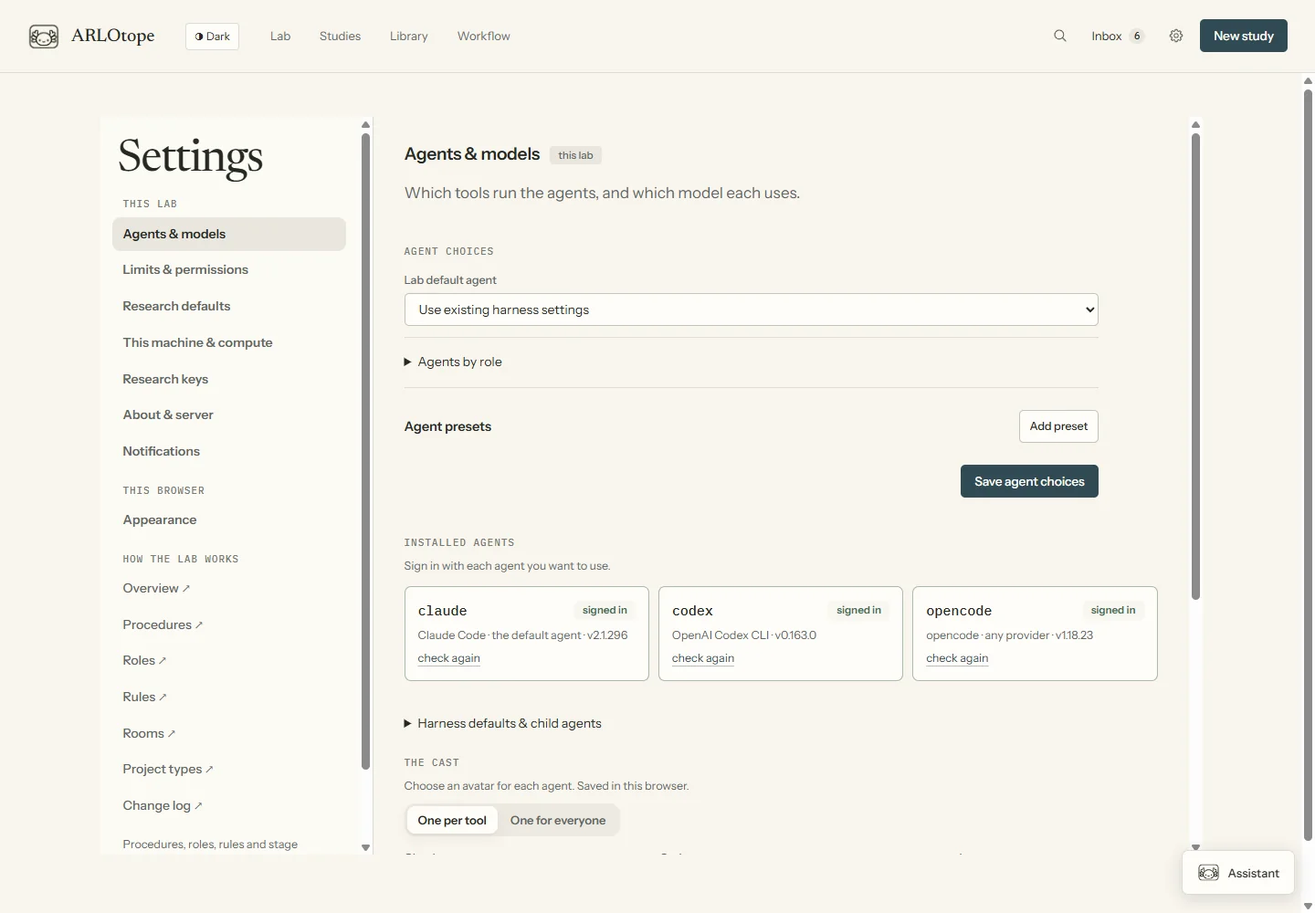
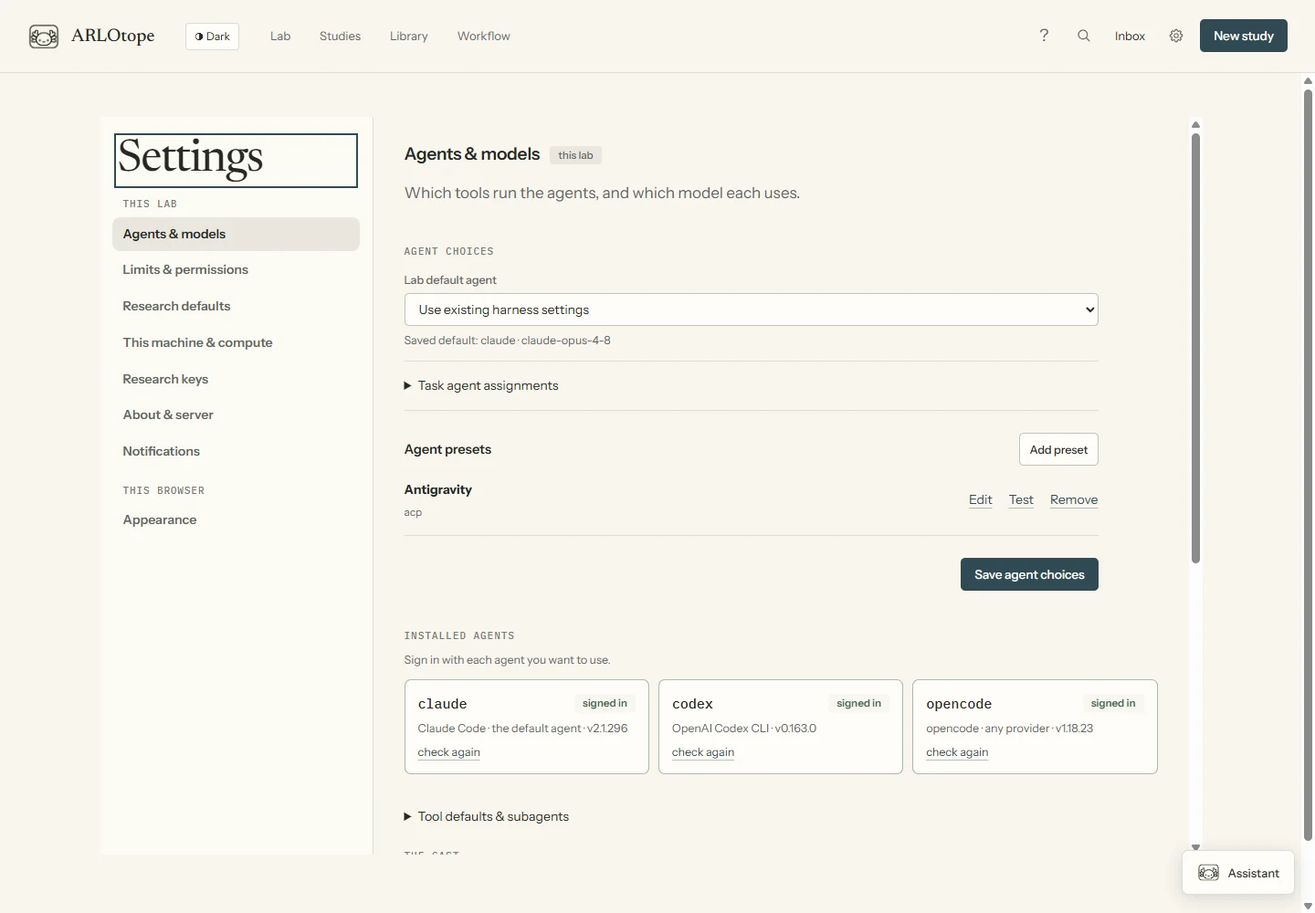
Add an optional ARLO guide and clarify task controls

diff --git a/dashboard/static/ui/research.css b/dashboard/static/ui/research.css
@@ -139,7 +139,7 @@ h2 { font-size:19px; letter-spacing:-.015em; }
 .cmp-advanced { margin:20px 0; }.cmp-advanced summary { padding:8px 10px; color:var(--ink-soft); font-size:13px; }.cmp-advanced .cmp-link { margin-left:10px; font-size:12px; }
 .cmp-page { max-width:1080px; padding:36px 42px 0; }.cmp-hero { padding:0; }.cmp-hero h1 { font-size:43px; margin:0; }.cmp-hero .lede { font-size:16px; }.cmp-hero .row { margin:0; }.cmp-main { padding-bottom:60px; }
 .cmp-bar { background:var(--bg); backdrop-filter:none; font-size:12px; padding:12px 30px; border-bottom:1px solid var(--edge); box-shadow:none; }.cmp-bar-dot { width:5px;height:5px; }.cmp-bar-undo { display:none; }.cmp-bar.draft { background:var(--paper-2); }.cmp-bar-dot.live { background:var(--ink-faint); }
-.process-page { padding-top:20px; }.process-page>.cmp-hero { padding:0; }.process-page>.cmp-hero h1 { font-size:36px; margin:0 0 10px; }.process-guide { margin-top:12px; padding-block:10px; }.process-toolbar { display:flex; justify-content:space-between; align-items:flex-end; gap:20px; margin:16px 0 12px; }.process-toolbar .field { min-width:230px; max-width:400px; flex:1; margin:0; }
+.process-page { padding-top:14px; }.process-page>.cmp-hero { padding:0; }.process-page>.cmp-hero h1 { font-size:32px; margin:0 0 6px; }.process-guide,.process-page>.process-agent { margin-top:8px; padding-block:8px; }.process-toolbar { display:flex; justify-content:space-between; align-items:flex-end; gap:16px; margin:12px 0; }.process-toolbar .field { min-width:230px; max-width:400px; flex:1; margin:0; }
 .process-definition { border:1px solid var(--edge); border-radius:5px; background:var(--paper); }.process-definition-head { display:flex; justify-content:space-between; gap:20px; padding:16px 20px; border-bottom:1px solid var(--edge); }.process-definition-head h2 { font:450 24px/1.2 var(--serif); }.process-definition-head p { margin:5px 0; font-size:13px; }.process-definition-head > .row { align-content:start; flex:none; }
 .process-steps { list-style:none; padding:0 24px; margin:0; }.process-steps > li { border-bottom:1px solid var(--edge); }.process-steps > li:last-child { border:0; }.process-step { display:flex; gap:20px; padding:20px 0; align-items:center; }.step-number { color:var(--ink-faint); font:11px var(--mono); min-width:20px; align-self:flex-start; margin-top:6px; }.step-title { border:0; background:none; padding:0; text-align:left; font-size:15px; font-weight:600; }.step-title:hover { text-decoration:underline; text-underline-offset:4px; }.process-step p { margin:3px 0 0; font-size:12px; color:var(--ink-soft); }.process-step .link { flex:none; }
 .process-checkpoint { display:flex; align-items:center; width:100%; gap:14px; background:var(--paper-2); border:1px solid var(--edge); text-align:left; padding:12px 14px; margin:10px 0; border-radius:3px; }.checkpoint-label { font:10px var(--mono); text-transform:uppercase; letter-spacing:.04em; color:var(--ink-faint); }.process-checkpoint b { font-size:12px; }.process-checkpoint small { display:block; color:var(--ink-soft); font-size:11px; margin-top:3px; }.process-checkpoint > span:last-child { color:var(--ink-soft); font-size:11px; }.process-route { font-size:11px; display:block; color:var(--ink-soft); margin-top:5px; }
@@ -234,6 +234,19 @@ body:has([aria-modal="true"]) .assistant-launch{display:none}
 .starting-task .chips{margin-bottom:12px}
 .study-workflow-map{margin:8px 0 18px}.study-workflow-map>summary{font-size:13px;color:var(--ink-soft)}
 .process-toolbar>.workflow-picker{flex:1}
+.arlo-welcome,.arlo-guide{margin:16px auto;padding:16px 20px;max-width:1000px;border:1px solid var(--edge);border-radius:6px;background:var(--paper)}
+.arlo-welcome{display:flex;align-items:center;gap:16px;margin-inline:24px;max-width:none}
+.arlo-welcome img,.arlo-guide img{width:32px;height:32px}.arlo-welcome h2,.guide-copy h2{font:500 20px/1.3 var(--serif);margin:0 0 5px}
+.arlo-welcome p,.guide-copy p{margin:0;font-size:14px}.arlo-guide header,.arlo-guide nav{display:flex;align-items:center;gap:12px}
+.arlo-guide header .iconbtn{margin-left:auto}.guide-copy{margin:8px 0 14px}.guide-copy small{display:block;color:var(--ink-soft);margin-top:6px;font-size:12px}
+.arlo-guide nav{flex-wrap:wrap}.output-instruction{margin-top:16px;border-top:1px solid var(--edge);padding-top:12px}.output-instruction>summary{font-size:13px;color:var(--ink-soft)}
+.study-position,.study-mobile-nav{display:none}
+@media(max-width:640px){
+  .arlo-welcome,.arlo-guide{margin:12px;padding:12px}.arlo-welcome{flex-wrap:wrap;gap:10px}.arlo-welcome>.grow{flex-basis:calc(100% - 80px)}.arlo-welcome>.row{order:2;width:100%}
+  .arlo-guide nav .link{flex-basis:100%;text-align:left}.arlo-guide nav .grow{display:none}.arlo-guide nav .btn:first-of-type{margin-left:auto}
+  .study-position{display:block;font-size:13px;margin:16px 0}.dossier-head>.metro-scroll,.study-tabs{display:none}.study-mobile-nav{display:block;margin:14px 0}
+  .dossier-head h1{font-size:34px;margin-block:18px}.wf-edit-bar{flex-wrap:wrap;gap:8px}.wf-edit-bar>span{flex-basis:100%}
+}
 .framework-activity{margin:16px 0;padding:14px;border:1px solid var(--edge);border-radius:6px}
 .framework-activity summary{font-weight:600}.framework-activity summary span{font-weight:400;margin-left:8px}
 .framework-timeline{list-style:none;padding:0;margin:10px 0;max-height:240px;overflow:auto}

diff --git a/dashboard/static/ui/guide.js b/dashboard/static/ui/guide.js
@@ -1,0 +1,51 @@
+/* A browser-local guide. Navigation only: never signs in, changes settings or starts work. */
+(function () {
+  const N=window.NL,{html,useState,useEffect}=N;
+  const stops=[
+    {title:'Choose your agent',route:'setup',action:'Agents & model settings',open:()=>N.go('settings/agents'),
+      text:'Connect Claude Code, Codex, opencode or an ACP agent. Sign in with its own account, then choose your model in Settings.',
+      hint:'You decide whether the dashboard can start agents. Set task limits and permissions there too.'},
+    {title:'Start a study',route:'start',action:'Open New study',
+      text:'Bring a research question, an existing folder or a GitHub repository. Add a brief or files, then review the starting workflow.',
+      hint:'Have work already? Select a task to use it or skip that task at the start. Creating a study starts no agents.'},
+    {title:'Shape the workflow',route:'workflow',action:'Open Workflow',
+      text:'Each task uses a skill, written instructions, or both. Connect tasks in order or in parallel. Choose a new, continued or forked conversation.',
+      hint:'Import reusable skills under Skills. Shared workflow edits stay in draft until you review and publish them.'},
+    {title:'Read the Lab',route:'',action:'Open the Lab',
+      text:'Rooms are shared workspaces for tasks. Click a character for its task, conversation and outputs. Follow it to watch activity; hover to see teammates.',
+      hint:'By machine keeps connected machines separate; Unified brings agents together. Use + Machine to connect over SSH.'},
+    {title:'Know when to step in',route:'',action:'Open Inbox',open:()=>N.open(N.InboxSheet,{}, {key:'inbox'}),
+      text:'The Inbox brings together agent questions, permission requests, checkpoints and interrupted work. The character also shows when it needs you.',
+      hint:'A turn ending does not finish a task. Continue unfinished work from its conversation; checkpoint approval is a separate decision.'},
+    {title:'Keep the evidence',route:'library',action:'Open Library',
+      text:'Outputs holds published results and interactive HTML summaries. Documents shows project files. Notes & sources keeps retained papers, human notes and saved answers.',
+      hint:'Choose a study to narrow the Library. Ask for a visual summary when you want an explainer to review recorded work.'},
+    {title:'Ask ARLO',route:'',action:'Open workspace assistant',open:()=>N.openAssistant(),
+      text:'The workspace assistant helps you understand the Lab, a study or an agent’s work. Choose its focus and agent in the conversation.',
+      hint:'Answers are saved separately in the Library. A human note records context; an instruction asks a working agent to do something.'}
+  ];
+  N.openGuide=()=>window.dispatchEvent(new Event('arlo-guide'));
+  N.Guide=({lab,home})=>{
+    const key='arlo-guide:'+lab.lab_info.path;
+    const [progress,setProgress]=useState(()=>N.ls.get(key)||{status:'new',step:0});
+    const step=Math.floor(Math.max(0,Math.min(stops.length-1,Number(progress.step)||0))),stop=stops[step];
+    const update=next=>{N.ls.set(key,next);setProgress(next)};
+    const start=()=>{const next=progress.status==='done'?0:step;update({status:'open',step:next});N.go(stops[next].route)};
+    useEffect(()=>{window.addEventListener('arlo-guide',start);return()=>window.removeEventListener('arlo-guide',start)},[progress.status,step]);
+    const close=status=>{update({status,step});requestAnimationFrame(()=>document.querySelector('[aria-label="Open ARLO guide"]')?.focus())};
+    const move=next=>{update({status:'open',step:next});N.go(stops[next].route)};
+    if(progress.status!=='open')return home&&!N.DEMO&&progress.status==='new'?html`
+      <aside class="arlo-welcome" aria-label="Welcome to ARLOtope"><img src="static/brand/arlotope-mark.png" alt=""/>
+        <div class="grow"><h2>Meet ARLO</h2><p>A short guide to your agents, workflows and research workspace.</p></div>
+        <div class="row"><${N.Btn} small kind="primary" onClick=${start}>Show me around</${N.Btn}><a class="btn btn-sm" href="#/start">New study</a></div>
+        <button type="button" class="iconbtn sm" aria-label="Dismiss welcome" onClick=${()=>close('done')}>×</button></aside>`:null;
+    return html`<aside class="arlo-guide" aria-label="ARLO guide">
+      <header><img src="static/brand/arlotope-mark.png" alt=""/><b>ARLO</b><span class="muted small">${step+1} / ${stops.length}</span>
+        <button type="button" class="iconbtn sm" aria-label="Close guide" onClick=${()=>close('paused')}>×</button></header>
+      <div class="guide-copy" aria-live="polite"><h2>${stop.title}</h2><p>${stop.text}</p><small>${stop.hint}</small></div>
+      <nav aria-label="Guide steps"><button type="button" class="link" onClick=${()=>stop.open?stop.open():N.go(stop.route)}>${stop.action} →</button>
+        <span class="grow"></span><${N.Btn} small disabled=${step===0} onClick=${()=>move(step-1)}>Back</${N.Btn}>
+        <${N.Btn} small kind="primary" onClick=${()=>step===stops.length-1?close('done'):move(step+1)}>${step===stops.length-1?'Done':'Next'}</${N.Btn}></nav>
+    </aside>`;
+  };
+})();

diff --git a/dashboard/static/ui/workflow-canvas.js b/dashboard/static/ui/workflow-canvas.js
@@ -204,7 +204,7 @@
         <path class="wf-edge-hit" d=${path}/><path d=${path} marker-end="url(#wf-arrow)"/>${caption?html`<text x=${direct?middle:p.x+106} y=${direct?y-9-index*14:lane-5} text-anchor="middle">${caption}</text>`:null}</g>`;
     };
     return html`<section class=${'wf-canvas'+(scale<.85?' is-overview':'')} aria-label="Workflow designer" onKeyDown=${keyDown}><header class="wf-toolbar"><div class="wf-map-tools"><${N.Input} ariaLabel="Find a task" value=${query} onInput=${setQuery} placeholder="Find a task or tag…"/><button type="button" class="btn btn-sm" onClick=${()=>{setSelected(null);setConnection(null);setZoom(null)}}>Fit overview</button><button type="button" class="iconbtn sm" aria-label="Zoom out" onClick=${()=>setZoom(Math.max(.2,scale-.15))}>−</button><button type="button" class="wf-zoom" aria-label="Actual size" title="Actual size" onClick=${()=>setZoom(1)}>${Math.round(scale*100)}%</button><button type="button" class="iconbtn sm" aria-label="Zoom in" onClick=${()=>setZoom(Math.min(1.6,scale+.15))}>+</button></div><${N.Seg} value=${view} onChange=${setView} options=${[{value:'flow',label:'Flow'},{value:'rooms',label:'By room'},{value:'list',label:'List'}]}/></header>
-      <div class="wf-edit-bar"><span role="status">${wire?'Choose a task to connect to. Escape cancels.':connection?`${nodes.find(n=>n.id===connection.source)?.label} → ${nodes.find(n=>n.id===connection.target)?.label} · ${connection.outcome||'done'}`:view==='rooms'?'Rooms are shared spaces. Tasks in the same room can belong to different studies.':'Drag + to another task to connect. Select a task or arrow, then Delete to remove.'}</span><button type="button" class="link small" disabled=${!history.length} onClick=${undo}>Undo</button>${connection?html`<button type="button" class="link small" onClick=${disconnect}>Disconnect</button>`:null}<button type="button" class="btn btn-sm" onClick=${()=>add(false,null)}>+ Task</button></div>
+      <div class="wf-edit-bar"><span role="status">${wire?'Choose a task to connect to. Escape cancels.':connection?`${nodes.find(n=>n.id===connection.source)?.label} → ${nodes.find(n=>n.id===connection.target)?.label} · ${connection.outcome||'done'}`:view==='rooms'?'Rooms are shared spaces. Tasks in the same room can belong to different studies.':'Drag + to connect. Select a task or arrow, then Delete to remove.'}</span><button type="button" class="link small" disabled=${!history.length} onClick=${undo}>Undo</button>${connection?html`<button type="button" class="link small" onClick=${disconnect}>Disconnect</button>`:null}<button type="button" class="btn btn-sm" onClick=${()=>add(false,null)}>+ Task</button>${onSave?html`<${N.Btn} small kind="primary" disabled=${!dirty} onClick=${onSave}>Save workflow draft</${N.Btn}>`:null}</div>
       ${picked.length?html`<div class="wf-group-bar"><b>${picked.length} selected</b><${N.Select} value=${room} onChange=${setRoom} options=${[{value:'',label:'Choose a room'},...rooms.map(r=>({value:r.id,label:r.label||r.id}))]}/><${N.Btn} small disabled=${!room} onClick=${()=>{onChange(nodes.map(n=>picked.includes(n.id)?{...n,room}:n));setPicked([])}}>Group in room</${N.Btn}>
       ${onCreateRoom?html`<${N.Input} value=${roomName} onInput=${setRoomName} placeholder="New room name"/><${N.Btn} small disabled=${!roomName.trim()} onClick=${async()=>{const id=await onCreateRoom(roomName,picked);if(id){onChange(nodes.map(n=>picked.includes(n.id)?{...n,room:typeof id==='string'?id:id.id}:n),typeof id==='object'?id:null);setPicked([]);setRoomName('')}}}>Create room & group</${N.Btn}>`:null}</div>`:null}
       <div class=${'wf-workbench'+(node?' has-inspector':'')}><div class="wf-map-scroll" ref=${scroll} tabindex="-1" aria-label="Workflow map">
@@ -243,7 +243,7 @@
       ${onCheckpoint?html`<${N.Btn} small onClick=${()=>onCheckpoint(node.id)}>+ Checkpoint</${N.Btn}>`:null}</div>
       <button type="button" class="link small wf-remove" disabled=${nodes.length<2} onClick=${removeTask}>Delete task</button>
       </aside>`:null}</div>
-      <footer class="wf-editor-foot">${onSave?html`<${N.Btn} kind="primary" disabled=${!dirty} onClick=${onSave}>Save workflow draft</${N.Btn}>`:null}${onExport?html`<${N.Btn} small disabled=${dirty} onClick=${onExport}>Download procedure</${N.Btn}>`:null}</footer>
+      ${onExport?html`<footer class="wf-editor-foot"><${N.Btn} small disabled=${dirty} onClick=${onExport}>Download skill</${N.Btn}></footer>`:null}
     </section>`;
   };
 })();

diff --git a/dashboard/static/ui/compose.js b/dashboard/static/ui/compose.js
@@ -103,7 +103,7 @@
       dirty: d => touched(d, 'workflow/steps.yaml', 'lab/workflow/step.') },
     { id: 'procedures', item: 'procedure', label: 'Skills', one: 'skill', n: d => Object.keys(d.procedures).length, blurb: 'Reusable instructions for agents. Tasks can use a skill or their own instructions.',
       dirty: d => touched(d, '.claude/skills/') || changes(d).some(c => c.path.startsWith('lab/workflow/') && !/^lab\/workflow\/(step\.|roles\/)/.test(c.path)) },
-    { id: 'roles', item: 'role', label: 'Roles', one: 'role', n: d => d.roles.length, blurb: 'The specialist subagents that procedures call on: critics, reviewers, runners.',
+    { id: 'roles', item: 'role', label: 'Subagent roles', one: 'role', n: d => d.roles.length, blurb: 'Reusable instructions for specialist subagents: critics, reviewers and experiment runners.',
       dirty: d => touched(d, 'agent-roles/', 'lab/workflow/roles/') },
     { id: 'rooms', item: 'room', label: 'Rooms', one: 'room', n: d => d.rooms.length, blurb: 'Group related workflow steps and place their agents in the Lab.',
       dirty: d => touched(d, 'lab/rooms3d/') },
@@ -288,7 +288,7 @@
   const Line = ({ d,w,first,n,ro,onCopy }) => {
     const steps=w.path||[], checkpoints=w.checkpoints||[];
     return html`<section class="process-definition"><header class="process-definition-head"><div><h2>${w.title||w.id}</h2><p class="muted">${w.blurb||'Your steps and review decisions.'}</p>
-      <span class="muted small">${first?'Default workflow · ':''}${NL.plural(n||0,'active study','active studies')}</span><${NL.Tags} value=${w.tags||[]}/></div>
+      <span class="muted small">Shared workflow · ${first?'Lab default · ':''}${NL.plural(n||0,'active study','active studies')}</span><${NL.Tags} value=${w.tags||[]}/></div>
       ${ro?null:html`<${NL.Btn} small onClick=${()=>NL.open(NewWorkflow,{like:w.id,onMade:onCopy},{kind:'dialog',key:'wf-new'})}>Make a copy</${NL.Btn}>`}</header>
       ${ro?null:html`<${VisualComposition} d=${d} w=${w}/>`}
       <details class="process-step-details"><summary>Step and checkpoint details</summary><ol class="process-steps">${steps.map((st,i)=>html`<li>
@@ -554,7 +554,7 @@
   };
 
   /* ── procedures ───────────────────────────────────────────────────────────── */
-  const GROUPS = [['stage', 'Step procedures', 'Each does the work of a step, and reports where the study goes next.'], ['driver', 'Drivers', 'Carry studies through several steps on their own.'],
+  const GROUPS = [['stage', 'Task skills', 'Reusable methods for tasks and their outcomes.'], ['driver', 'Drivers', 'Carry studies through several steps on their own.'],
     ['entry', 'Ways in', 'Start something new.'], ['utility', 'Utilities', 'Everything else agents can be asked to do.']];
   const openImportSkill = () => NL.open(ImportSkill, {}, {kind:'dialog', key:'skill-import'});
   const ImportSkill = ({onClose}) => {

diff --git a/dashboard/static/ui/app.js b/dashboard/static/ui/app.js
@@ -22,6 +22,7 @@
       { title: 'Machines', sub: 'Page', run: () => NL.go('labs') },
       { title: 'History', sub: 'Page', run: () => NL.go('history') },
       { title: 'New study', sub: 'Page', run: () => NL.go('start') },
+      { title: 'ARLO guide', sub: 'Help', run: () => NL.openGuide() },
       { title: 'Documents', sub: 'Library', run: () => NL.go('library?view=documents') },
       { title: 'Settings', sub: 'Page', run: () => NL.go('settings') }];
     const list = all.filter(x => (x.title + ' ' + x.sub).toLowerCase().includes(q.trim().toLowerCase())).slice(0, 12);
@@ -150,11 +151,12 @@
         <button type="button" class="theme-switch" aria-label=${NL.themeNow()==='day'?'Switch to dark mode':'Switch to light mode'} title=${NL.themeNow()==='day'?'Switch to dark mode':'Switch to light mode'} onClick=${()=>NL.setPref('theme',NL.themeNow()==='day'?'night':'day')}>${NL.themeNow()==='day'?'◑ Dark':'◐ Light'}</button>
         <nav class="lab-nav" aria-label="Main navigation">${NAV.map(([path, title]) => html`<a href=${NL.focusHref(path,focus)}
           aria-current=${(GROUP[page] ?? page) === path ? 'page' : null}>${title}</a>`)}</nav>
-        <div class="lab-tools"><button type="button" class="iconbtn" onClick=${NL.openPalette} aria-label="Search" title="Search (Ctrl+K)"><${NL.Glyph} name="lens" size=${18} /></button>
+        <div class="lab-tools"><button type="button" class="iconbtn" onClick=${NL.openGuide} aria-label="Open ARLO guide" title="ARLO guide">?</button><button type="button" class="iconbtn" onClick=${NL.openPalette} aria-label="Search" title="Search (Ctrl+K)"><${NL.Glyph} name="lens" size=${18} /></button>
           <button type="button" class="needs-button" onClick=${() => NL.open(NL.InboxSheet, {}, { key: 'inbox' })}>Inbox${needs ? html`<span class="count">${needs}</span>` : null}</button>
           <a class="iconbtn" href="#/settings" aria-label="Settings" title="Settings"><${NL.Glyph} name="gear" size=${18} /></a>
           <${NL.Btn} kind="primary" onClick=${() => NL.go('start')}>New study</${NL.Btn}></div></header>
       <main ref=${main} id="main-content" class="stage" tabIndex="-1"><${NL.PausedBar} />
+        ${s.lab_info?.path?html`<${NL.Guide} key=${s.lab_info.path} lab=${s} home=${showLab}/>`:null}
         ${['home','world','study','workflow','library','artifacts','runs'].includes(page)?html`<${NL.WorkContext}/>`:null}
         ${connection === 'offline' || connection === 'reconnecting' ? html`<div class="connection-note" role="status">Reconnecting. Showing the last known state.</div>` : null}
         ${labSeen.current ? html`<div class="lab-mount" hidden=${!showLab}><${LabView} active=${showLab} /><${NL.LabDesk}/></div>` : null}

diff --git a/dashboard/static/ui/artifacts.js b/dashboard/static/ui/artifacts.js
@@ -69,7 +69,7 @@
   NL.replyWhere = r => {
     if (!r) return '';
     if (r.delivered && r.delivered.startsWith('run ')) return `went to ${r.delivered} as its next message`;
-    if (r.delivered && r.delivered.startsWith('a note')) return `its run had ended; kept as ${r.delivered.replace('a note to', 'a note for the next agent on')}`;
+    if (r.delivered && r.delivered.startsWith('a note')) return `queued as an instruction for ${r.delivered.replace('a note to ', '')}`;
     if (r.delivered) return 'went to ' + r.delivered;
     return r.delivered_error ? 'not delivered: ' + r.delivered_error : '';
   };
@@ -94,13 +94,14 @@
       if (x && x.ok) { setText(''); setLocal(x.reply); NL.toast('Sent: ' + NL.replyWhere(x.reply), 'ok'); setTimeout(NL.refresh, 300); }
       else NL.toast((x && x.error) || 'That did not work.', 'bad');
     };
-    return html`<div class="art-ask">
+    const form=html`<div class="art-ask">
       ${a.question ? html`<div class="art-q"><span class="art-q-ico">?</span><b>${a.question}</b></div>` : null}
       ${choices.length ? html`<div class="art-choices" role="radiogroup">${choices.map(c => html`<button type="button" role="radio" aria-checked=${pick === c} class=${cls('art-choice', 'pickable', pick === c && 'chosen')} disabled=${busy} onClick=${() => setPick(pick === c ? null : c)}>${pick === c ? '◉ ' : '○ '}${c}</button>`)}</div>` : null}
       <div class="reply"><${NL.Textarea} rows="2" value=${text} onInput=${setText} onSubmit=${send}
         placeholder=${a.question ? (choices.length ? 'Add a note, if you like (Ctrl+Enter sends)' : 'Your answer (Ctrl+Enter)') : 'Instruction for the producing agent (Ctrl+Enter)'} />
         <${NL.Btn} kind="primary" disabled=${busy || (!pick && !text.trim())} onClick=${send}>${a.question?'Send answer':'Send instruction'}</${NL.Btn}></div>
-      <small class="muted">${a.run_id ? 'Continues the producing agent, or queues an instruction if it cannot resume.' : 'It is queued as an instruction for this study.'}</small></div>`;
+      <small class="muted">${a.run_id ? 'Continues the producing agent, or queues an instruction if it cannot resume.' : a.study ? 'Queues an instruction for this study’s next agent.' : 'Queues an instruction in the Lab inbox.'}</small></div>`;
+    return a.question?form:html`<details class="output-instruction"><summary>Instruct an agent</summary>${form}</details>`;
   };
 
   /** one artifact, whole: where it came from, what it is, what it asks */

diff --git a/dashboard/static/ui/agents.js b/dashboard/static/ui/agents.js
@@ -35,7 +35,8 @@
     return html`<div class="agent-assignments">
       ${data.error?html`<${NL.LoadState} error=${data.error} reload=${data.reload} stale />`:null}
       <${NL.Field} label=${study||onDraft?'Default agent':'Lab default agent'}><${NL.Select} value=${draft.default_preset||''} onChange=${v=>change({...draft,default_preset:v||null})} options=${[{value:'',label:'Use existing '+(study||onDraft?'Lab':'harness')+' settings'},...choices]}/></${NL.Field}>
-      <details><summary>Agents by role <span class="muted small">${Object.keys(draft.role_presets||{}).length?'· '+NL.plural(Object.keys(draft.role_presets).length,'custom choice'):''}</span></summary><p class="muted small">Override the default for specific roles. Child agents use their harness settings.</p>
+      ${data.resolved?.general?html`<p class="muted small">Saved default: ${data.resolved.general.label||data.resolved.general.backend} · ${data.resolved.general.model||'tool’s model default'}</p>`:null}
+      <details><summary>Task agent assignments <span class="muted small">${Object.keys(draft.role_presets||{}).length?'· '+NL.plural(Object.keys(draft.role_presets).length,'custom choice'):''}</span></summary><p class="muted small">Choose agents for task roles. Specialist child agents use the tool’s subagent settings.</p>
         <div class="agent-role-rows">${Object.entries(data.roles).map(([id,label])=>html`<${NL.Field} key=${id} label=${label}><${NL.Select} value=${Object.hasOwn(draft.role_presets||{},id)?draft.role_presets[id]??'@default':'@inherit'} onChange=${v=>setRole(id,v)} options=${[{value:'@inherit',label:study||onDraft?'Use Lab role setting':'Use general default'},...(study||onDraft?[{value:'@default',label:'Use study default'}]:[]),...choices]}/></${NL.Field}>`)}</div>
       </details>
       ${!study&&!onDraft?html`<section class="preset-list"><header class="row"><h3 class="grow">Agent presets</h3><${NL.Btn} small onClick=${()=>{let id='new-agent',i=2;while(current[id])id='new-agent-'+i++;setEditing(id);setPreset({label:'',backend:'codex'});setError('')}}>Add preset</${NL.Btn}></header>

diff --git a/dashboard/static/ui/studies.js b/dashboard/static/ui/studies.js
@@ -140,6 +140,7 @@
         <h1>${it.title || it.id}</h1>
         ${it.remote_project?html`<p class="muted small">${it.machine} · ${it.remote_project.path} · <button class="link" onClick=${()=>NL.openMachineSetup(it.machine)}>Connection</button></p>`:null}
         <${NL.StudyTags} it=${it}/><${NL.Metro} it=${it} />
+        <p class="study-position"><span class="muted">Workflow position</span> · <b>${NL.taskLabel(it)}</b></p>
         <details class="study-workflow-map"><summary>Workflow map</summary><${NL.WorkflowOverview} workflow=${NL.workflowOf(it)} ready=${it.runnable||[]} completed=${it.completed_steps||[]}/></details>
         ${(it.slipped || []).map(x => html`<div class="banner banner-bad"><${NL.Glyph} name="diamond" size=${18} /><span class="grow"><b>Went past “${(NL.checkpoint(x.id, it) || {}).title || x.id}” without your approval.</b> <span class="muted">${x.why}</span></span>
           <${NL.Btn} small onClick=${() => NL.openCheckpoint(it.id, x.id)}>Review</${NL.Btn}></div>`)}
@@ -148,7 +149,8 @@
         ${hold ? html`<div class="banner"><${NL.Glyph} name="pause" size=${18} /><span class="grow"><b>On hold</b> <span class="muted small">· new agents cannot start${hold.reason && hold.reason !== 'held by the PI' ? ': ' + hold.reason : ''}</span></span>
           <${NL.Btn} small onClick=${() => NL.act('/api/study/hold', { study: it.id, hold: false }, 'Released')}>Release</${NL.Btn}></div>` : null}
         <${ActionOrb} key=${it.id} it=${it} /></header>
-      <${NL.Tabs} tabs=${tabs} value=${tab} onChange=${setTab} />
+      <div class="study-tabs"><${NL.Tabs} tabs=${tabs} value=${tab} onChange=${setTab} /></div>
+      <div class="study-mobile-nav"><${NL.Select} ariaLabel="Study section" value=${tab} onChange=${setTab} options=${tabs.map(t=>({value:t.id,label:t.label+(t.count?' · '+t.count:'')}))}/></div>
       <div class="tabpane">
         ${tab === 'overview' ? html`<${Overview} key=${it.id} it=${it} />` : null}
         ${tab === 'docs' ? html`<${Documents} key=${it.id} it=${it} rel=${args.slice(2).join('/')} />` : null}

diff --git a/dashboard/static/ui/demo.js b/dashboard/static/ui/demo.js
@@ -218,8 +218,8 @@ function demoState(T, items) {
         { label: 'The scaling law', description: 'the headline claim first; the ablation backs it up' },
         { label: 'The ablation', description: 'build up to the law from what each part contributes' }] }] } } }),
     run('r-sweep', 'experiment', 'rl', 'failed', { reason: 'timed out after its 45-minute limit (exp-019, seed 2)', finished: ago(95) }),
-    run('r-rev', 'review-paper', 'rev-1', 'running'),
-    run('r-ask', 'ask', null, 'running'),
+    run('r-rev', 'review-paper', 'rev-1', 'running', {role:'reviewer'}),
+    run('r-ask', 'ask', null, 'running', {role:'assistant'}),
     run('r-spawn', 'spawn-project', 'prop-2', items.find(i => i.id === 'prop-2' && !i.has_project) ? 'running' : 'completed'),
     run('r-ideate', 'ideate', null, T % 10 < 6 ? 'queued' : 'running'),
   ];
@@ -242,7 +242,9 @@ function demoState(T, items) {
     items: items.map(it => ({ inflight: [], events: [], directives: [], workflow: 'research', slipped: [], ...it, waiting: it.waiting || [],
       checkpoints: Object.fromEntries((it.approved || []).map(c => [c, rec(c)])) })), runs: runs.concat(done), attention, workers: [], agents: demoAgents(runs),
     directives: [], checkpoints_waiting: attention.filter(a => a.kind === 'checkpoint').length, cold: false, events,
-    executor: { available: true, enabled: true, caps: { total: 7 }, clis: DEMO_CLIS },
+    executor: { available: true, enabled: true, caps: { total: 7 }, clis: DEMO_CLIS,
+      active:runs.filter(r=>['running','waiting_input'].includes(r.status)).length,
+      slots_used:runs.filter(r=>['running','waiting_input'].includes(r.status)&&!['reviewer','assistant'].includes(r.role)).length },
     campaign_states: NL.demoCampaignStates ? NL.demoCampaignStates(T) : [],
     campaigns: [] };
 }

diff --git a/dashboard/static/ui/runs.js b/dashboard/static/ui/runs.js
@@ -465,7 +465,7 @@
         <div class="row">${s.lab_paused ? html`<${NL.Btn} onClick=${() => NL.pauseLab(false)}>Resume all</${NL.Btn}>` : nRun ? html`<${NL.Btn} kind="ghost" onClick=${() => NL.pauseLab(true)} title="Stops every agent; you can resume them">Pause all</${NL.Btn}>` : null}
           <${NL.Btn} kind="primary" icon="＋" onClick=${() => NL.openStart()}>Start task</${NL.Btn}></div></header>
       <div class="statline">
-        <span><b>${nRun}</b> dashboard runs active${caps.total ? html` · <a class="link" href="#/settings/autonomy" title="Change dashboard run limit">limit ${caps.total}</a>` : ''}</span><span><b>${all.filter(r => r.status === 'queued').length}</b> queued</span><span><b>${all.filter(needsAttention).length}</b> waiting for you</span><span><b>${terminals.length}</b> ${terminals.length === 1 ? 'terminal session' : 'terminal sessions'}</span>
+        <span><b>${x.slots_used??'—'}</b>${caps.total ? html` / <a class="link" href="#/settings/autonomy" title="Change task limit">${caps.total}</a>` : ''} task slots used</span><span><b>${x.active??nRun}</b> agents active</span><span><b>${all.filter(r => r.status === 'queued').length}</b> queued</span><span><b>${all.filter(needsAttention).length}</b> waiting for you</span><span><b>${terminals.length}</b> ${terminals.length === 1 ? 'terminal session' : 'terminal sessions'}</span>
         ${x.brake ? html`<span class="warn">⚠ daily limit reached: ${x.brake}</span>` : null}
         ${!NL.execOn(s) && !NL.DEMO ? html`<span class="warn">Starting agents from the dashboard is off. <a class="link" href="#/settings/autonomy">Turn it on</a></span>` : null}
       </div>

diff --git a/dashboard/static/ui/settings.js b/dashboard/static/ui/settings.js
@@ -375,12 +375,12 @@
   const AgentsPage = () => html`<div class="agents-page">
     <${NL.Section} title="Agent choices"><${NL.AgentAssignments} compact/></${NL.Section}>
     <${NL.Section} title="Installed agents"><p class="muted small">Sign in with each agent you want to use.</p><${NL.AgentsSignIn} /></${NL.Section}>
-    <details><summary>Harness defaults & child agents</summary><${DefaultAgent}/><${AgentModels}/></details>
+    <details><summary>Tool defaults & subagents</summary><${DefaultAgent}/><${AgentModels}/></details>
     <${Cast} />
     <${NL.Section} title="What they do">
       <div class="agent-links">
-        <a class="agent-link" href="#/workflow/procedures"><b>Procedures</b><small>what a main agent does at each step: add your own instructions, or rewrite the method</small></a>
-        <a class="agent-link" href="#/workflow/roles"><b>Roles</b><small>the subagents: what each specialist is told, and new ones copied from an old</small></a>
+        <a class="agent-link" href="#/workflow/procedures"><b>Skills</b><small>Reusable task instructions. Import your own or adapt an existing method.</small></a>
+        <a class="agent-link" href="#/workflow/roles"><b>Subagent roles</b><small>Instructions for specialist reviewers, critics and experiment runners.</small></a>
         <a class="agent-link" href="#/workflow/rules"><b>Rules</b><small>what every agent always does</small></a>
         <a class="agent-link" href="#/settings/autonomy"><b>Limits & permissions</b><small>whether the dashboard may start agents, how many at once, how long each may run</small></a>
       </div></${NL.Section}>

diff --git a/dashboard/static/ui/knowledge.js b/dashboard/static/ui/knowledge.js
@@ -66,7 +66,7 @@
   </div>`;
 
   const RecordList = ({ data, loading, error, study, kind, search, selected, loadMore, reload }) => html`<aside class="split-left">
-    <p class="muted small">Notes, answers and retained sources.</p>
+    <p class="muted small">Retained papers, human notes and saved answers. Project files are under Documents.</p>
     ${error ? html`<${N.LoadState} error=${error} reload=${reload} stale=${!!data} />` : null}
     ${!data && loading ? html`<p role="status"><${N.Spinner}/> Loading records…</p>` : data?.rows?.length ? data.rows.map(record => html`
       <a class=${'shelf-doc' + (selected === record.id ? ' on' : '')} aria-current=${selected === record.id ? 'page' : null}
